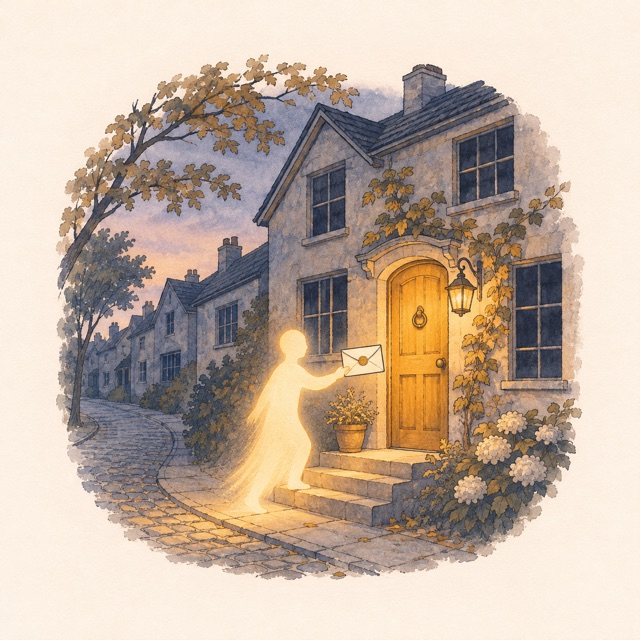
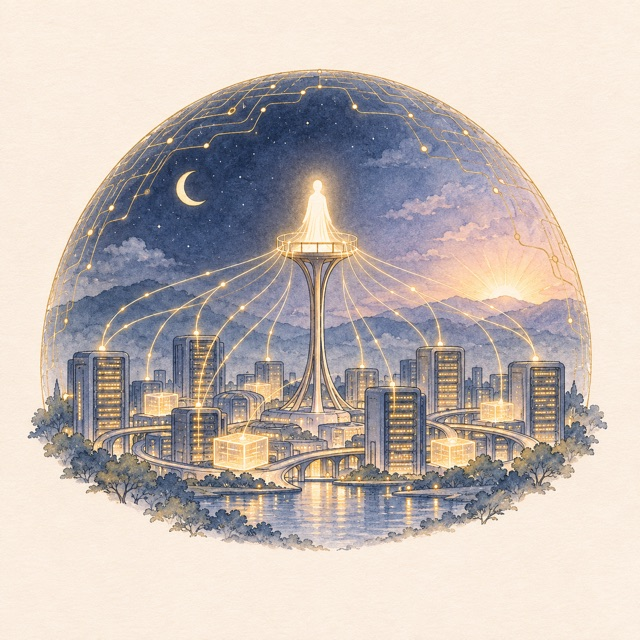
README: the card shows the guard keeping watch over the city, day and night

diff --git a/README.md b/README.md
@@ -26,7 +26,7 @@ stack-guard checks everything you build and run for known security holes, tells 
 
 <table>
 <tr>
-<td width="42%"><img src="docs/card.jpg" width="100%" alt="A quiet street at evening, every window dark except one house with a lit front door. A figure of light, with no face, hands a single sealed letter with a gold seal to that door while the neighbouring houses sleep."></td>
+<td width="42%"><img src="docs/card.jpg" width="100%" alt="A small futuristic city of server towers and glowing data blocks at night under a dome of gold circuit lines, with signal lines running from every building to a guardian made of light on a tall tower; the moon on one side and the dawn on the other."></td>
 <td>
 
 🛡 ***Your setup is yours alone.** A Python script here. A Discord bot there. A site on Vercel. A little server you forgot to shut down. All of it runs on code other people wrote, and any of it can have a hole.*
